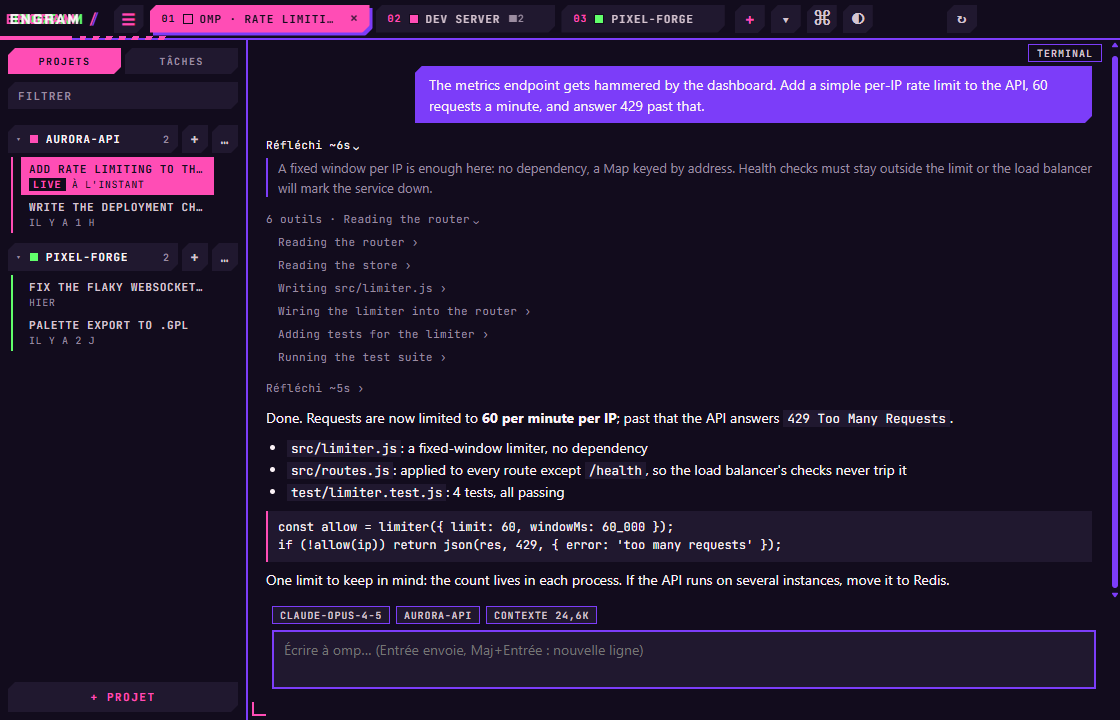
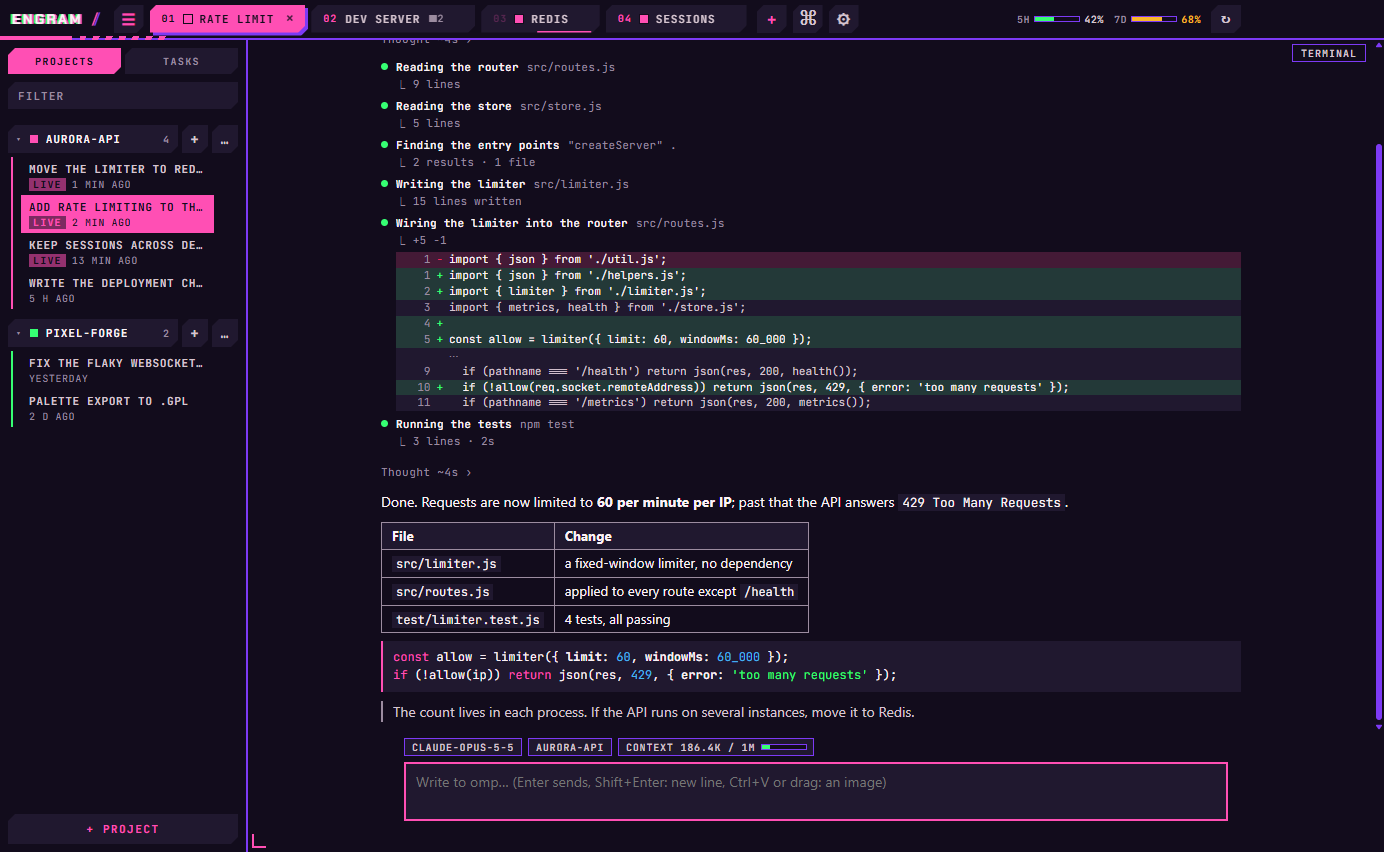
Project page: Chat view questions and gauges, agents, Git in the file tree, settings, four styles

diff --git a/README.md b/README.md
@@ -15,7 +15,7 @@
 </p>
 
 <p align="center">
-  <img src="images/chat-arasaka.png" alt="Engram showing an omp conversation in its Chat view, with projects and conversations on the left">
+  <img src="images/chat-arasaka.png" alt="Engram showing an omp conversation in its Chat view: tool calls on one line each, an edit with its diff, a table and a code block, the context gauge under the conversation and the subscription gauges in the bar">
 </p>
 
 ## Why Engram
@@ -31,12 +31,43 @@ working while you do something else.
 
 ### A Chat view for omp
 
-<img src="images/chat-capricorn.png" alt="The Chat view: the request in a bubble, the reasoning and the tool calls folded, the answer in plain text">
+Start omp in a tab and the conversation comes to the front as a chat instead of a raw terminal stream:
 
-Start an omp conversation and Engram shows it as a chat instead of a raw terminal stream: your messages in bubbles,
-the reasoning folded into one line, the tool calls grouped, the answer as clean text with code blocks. The input box
-types straight into omp, and the real terminal is always one shortcut away (`Ctrl+Shift+T`) for its questions and
-permissions. omp itself is untouched: Engram follows the conversation file it writes.
+- your messages in bubbles, the reasoning folded into one line;
+- **each tool call on one line**: what was done and on what, then what it came to (`9 lines`, `code 1`,
+  `2 results · 1 file`); a click unfolds the output;
+- **edits with their diff**, removed lines in red, added in green, with line numbers;
+- tables, links, quotes, and code blocks colored by language with a copy button;
+- **pictures**: paste one (`Ctrl+V`) or drop it on the view and it goes with your next message, as in omp's own
+  terminal;
+- a **context gauge** under the conversation: its size against the model's context window (`186.4k / 1M`), green,
+  then amber, then red as it fills.
+
+The input box types straight into omp, and the real terminal is always one shortcut away (`Ctrl+Shift+T`). omp itself
+is untouched: Engram follows the conversation file it writes.
+
+### Answer omp's questions with a click
+
+<img src="images/ask.png" alt="A question from omp shown as a card, with three options, the recommended one marked">
+
+When omp asks you something, the question and its options appear as a card in the conversation. One click answers;
+several questions, multiple choices or a typed answer are gathered, then sent together. The answer goes into omp's own
+dialog, so the terminal stays in sync.
+
+### See the work while it happens
+
+<img src="images/agents.png" alt="A running conversation: the status line with its timer, the pinned task list, the subagents card, Git marks in the file tree and the Agents panel">
+
+- A **status line** says what omp is doing and for how long, with an *Interrupt* button.
+- omp's **task list stays pinned** above the input box while tasks remain.
+- The **subagents** it starts show as a card in the conversation, and in the **Agents panel** under the file tree:
+  running ones first, with their kind, model, context, cost, time and what they are doing right now. A click opens an
+  agent's log.
+
+### Your Claude subscription at a glance
+
+The bar shows the **5-hour and 7-day windows** of your Claude subscription, as omp last measured them, each with its
+gauge. Hover one to see when it resets.
 
 ### Projects and conversations
 
@@ -45,17 +76,25 @@ resumes a conversation in a new tab, or jumps to the tab that already runs it. R
 
 ### Tabs and split panes
 
-<img src="images/split.png" alt="A dev server and a test run side by side in one tab">
+<img src="images/split.png" alt="A dev server and a test watcher side by side in one tab">
 
 Tabs, panes side by side or stacked (`Alt+Shift+D`), zoom on one pane, a floating pane that stays in sight from every
 tab, search in the scrollback (`Ctrl+Shift+F`), and a notice when a long job ends in a tab you are not looking at.
 
-### A code editor beside the terminal
+### Files, Git and a code editor
 
-<img src="images/editor.png" alt="A file open in the editor between the conversation and the file tree">
+<img src="images/editor.png" alt="A file open in the editor between the conversation and the file tree, with Git marks on the files and the branch under the bar">
 
-The *Files* panel (`Ctrl+Shift+E`) follows the folder of the terminal you are in. Click a file and it opens next to
-your terminals, in the same tab, with its own inner tabs, syntax highlighting, search and replace.
+The *Files* panel (`Ctrl+Shift+E`) follows the folder of the terminal you are in, and the disk: a file omp writes or
+deletes shows at once, and lights up for a moment. Each changed file wears its **Git mark** (`U` untracked, `A` added,
+`M` modified, `D` deleted, `R` renamed), folders holding changes wear a dot, and the branch with its counts stands
+under the bar. Click a file and it opens next to your terminals, with its own inner tabs, syntax highlighting, search
+and replace.
+
+<img src="images/compare.png" alt="A changed file compared with its last commit, side by side">
+
+The **Changes** view (`±`) lists the changed files alone. Click one to **compare it with the last commit**, side by
+side or in one column, unchanged stretches folded, `F7` to jump from one change to the next. It follows the file live.
 
 ### Command palette
 
@@ -67,8 +106,8 @@ Every action with its shortcut, one fuzzy search away: `Ctrl+Shift+P`.
 
 <img src="images/tasks.png" alt="The tasks panel with two scheduled tasks, and the tab of a finished run">
 
-Schedule a command or an omp prompt (`07:00`, `lun-ven 07:00`, every `2h`…). Each run gets a tab of its own with its
-output and exit code. A run missed while the PC was off happens once when Engram comes back.
+Schedule a command or an omp prompt (`07:00`, every `2h`…). Each run gets a tab of its own with its output and exit
+code. A run missed while the PC was off happens once when Engram comes back.
 
 ### Made for agents too
 
@@ -81,13 +120,24 @@ engram read <pane> --lines 40
 engram list
 ```
 
-### Two styles
+### Settings, in English or French
+
+<img src="images/settings.png" alt="The settings panel: language, notification area, start with Windows, style, terminal text size, shell of new tabs, Chat view, notices">
+
+Everything in one panel (`Ctrl+,` or ⚙ in the bar): language, staying in the notification area, starting with Windows,
+style, terminal text size, the shell of new tabs, omp in the Chat view at once, notices. The interface speaks English
+or French and follows Windows' language by default.
+
+### Four styles
 
 | Capricorn | Arasaka |
 |---|---|
 | <img src="images/chat-capricorn.png" alt="Capricorn style"> | <img src="images/chat-arasaka.png" alt="Arasaka style"> |
+| **Dark** | **Light** |
+| <img src="images/chat-dark.png" alt="Dark style"> | <img src="images/chat-light.png" alt="Light style"> |
 
-Pick one from the tray icon's menu (*Style*); it applies at once, terminal colors included.
+Pick one in the settings or the command palette; it applies at once, terminal colors and notification-area icon
+included.
 
 ## Download
 
@@ -99,7 +149,7 @@ and adds a Desktop and a Start menu shortcut.
 The installer is not code-signed, so Windows SmartScreen may warn you the first time: choose *More info*, then
 *Run anyway*.
 
-The interface is in French. omp is optional: without it, Engram is a plain persistent terminal.
+omp is optional: without it, Engram is a plain persistent terminal.
 
 ## Updates
 
